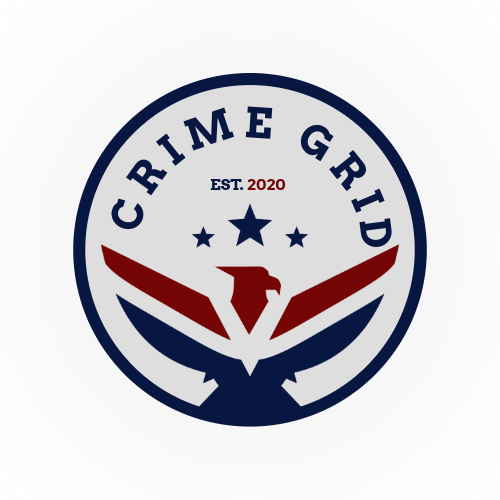
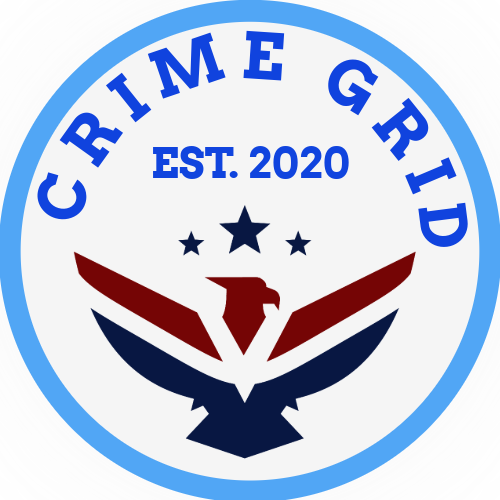
Load Chicago Data Portal Data

diff --git a/frontend/index.html b/frontend/index.html
@@ -2,7 +2,7 @@
 <html lang="en">
   <head>
     <meta charset="UTF-8" />
-    <link rel="icon" type="image/svg+xml" href="/vite.svg" />
+    <link rel="icon" type="image/png" href="/Crime_Grid.png" />
     <meta name="viewport" content="width=device-width, initial-scale=1.0" />
     <title>CrimeGrid.ai</title>
   </head>
